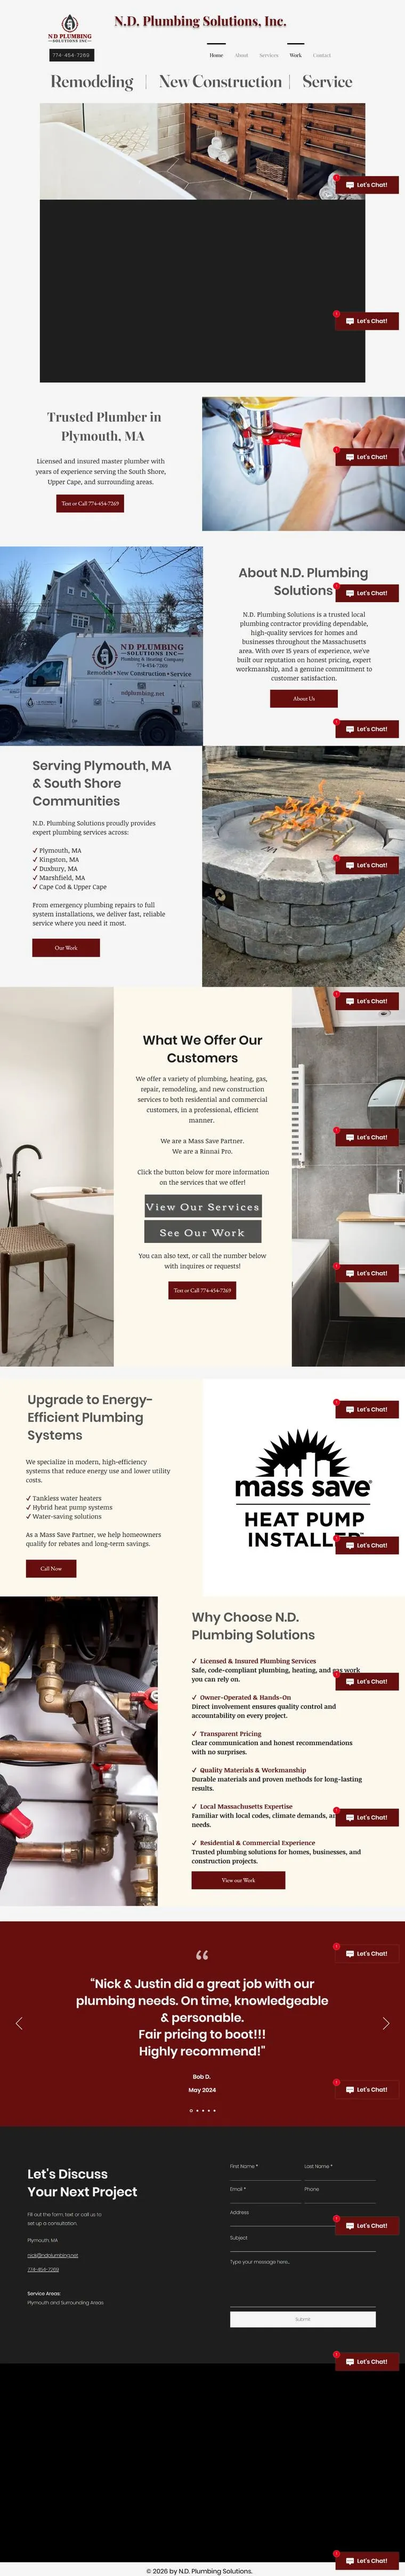
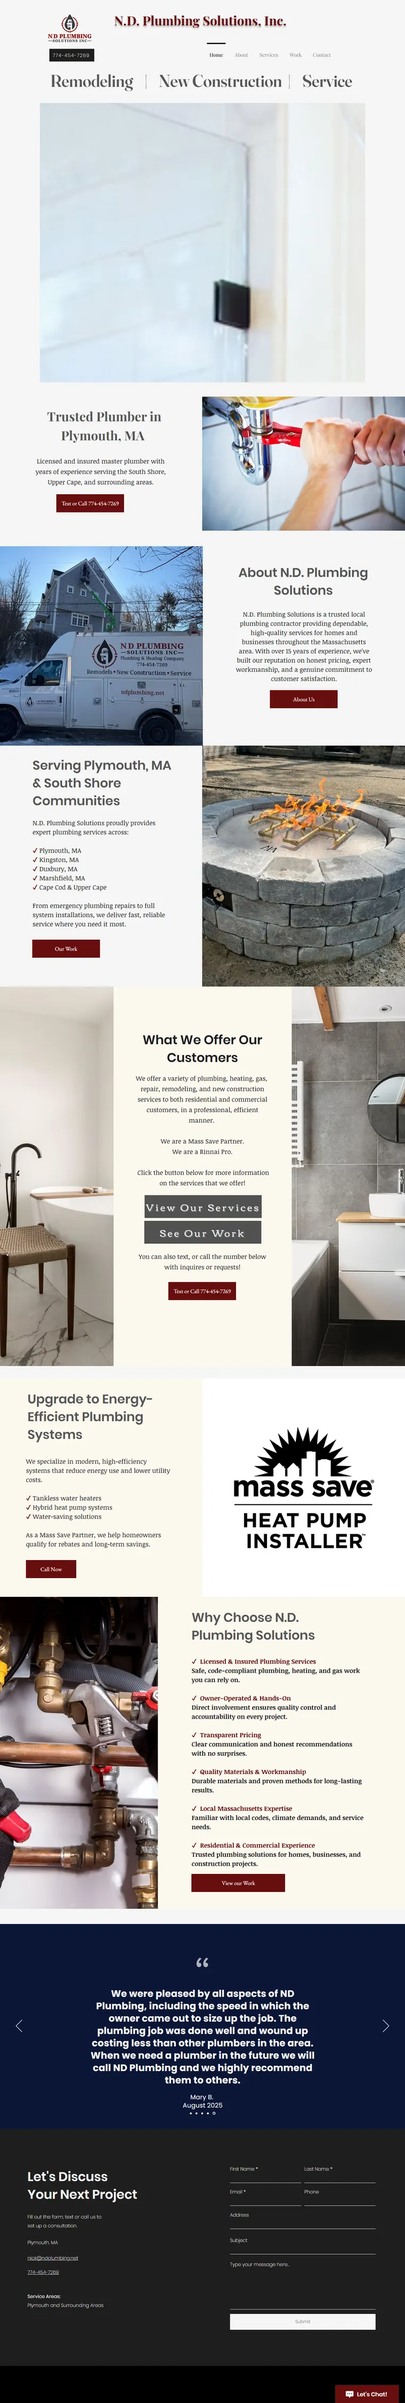
Replace N.D. Plumbing screenshot with a clean capture
The old screenshot had a black block where the hero slideshow failed
to load, and the floating chat button repeated down the page.

diff --git a/index.html b/index.html
@@ -346,7 +346,7 @@ footer h2{font-size:clamp(2rem,4.6vw,3.4rem);font-weight:800;letter-spacing:-.02
           <div class="browser">
             <div class="bar"><div class="dots" aria-hidden="true"><i></i><i></i><i></i></div><div class="url">ndplumbing.net</div></div>
             <a class="screen" href="images/ndplumbing.webp" target="_blank" rel="noopener" style="--dur:8s" aria-label="Open the full-page screenshot of ndplumbing.net">
-              <img src="images/ndplumbing.webp" alt="N.D. Plumbing Solutions homepage: remodeling, new construction and service, about section, service areas, energy-efficient systems, reasons to choose them, customer reviews and contact form" loading="lazy" width="760" height="4825">
+              <img src="images/ndplumbing.webp" alt="N.D. Plumbing Solutions homepage: remodeling, new construction and service, about section, service areas, services offered, energy-efficient systems, reasons to choose them, customer review and contact form" loading="lazy" width="760" height="4501">
             </a>
             <p class="hint"><span class="mouse">Hover to scroll, click to enlarge</span><span class="touch">Tap to see the full page</span></p>
           </div>
